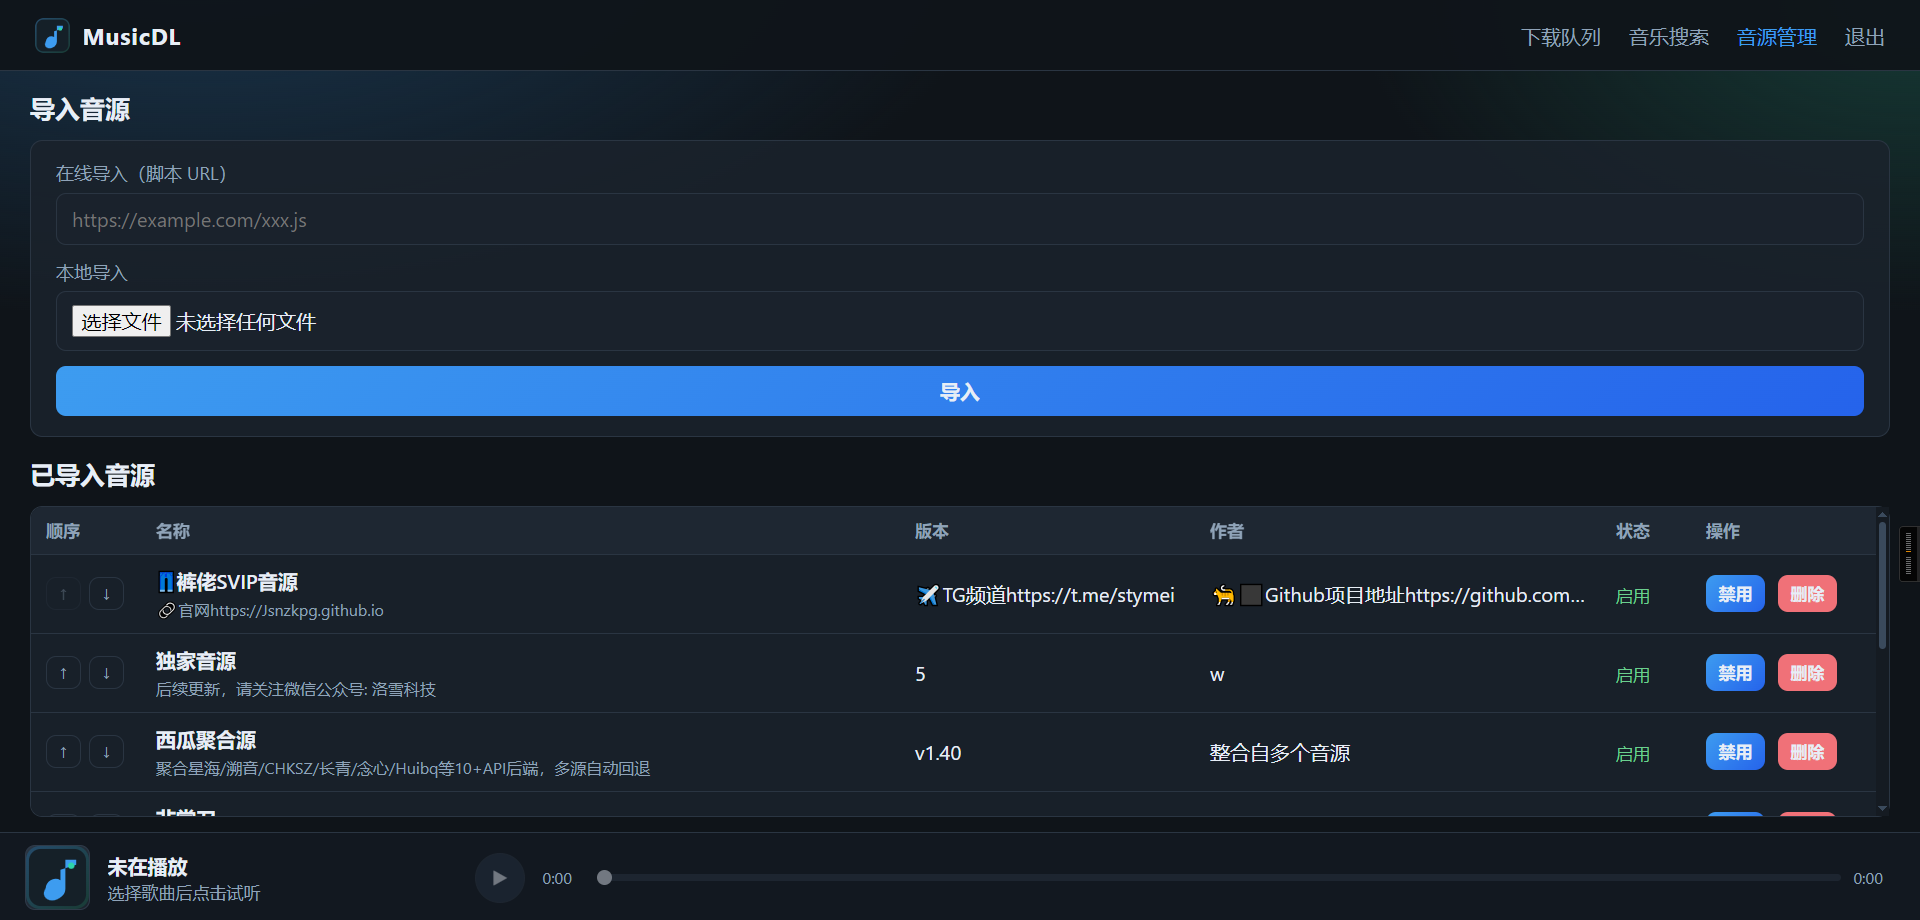
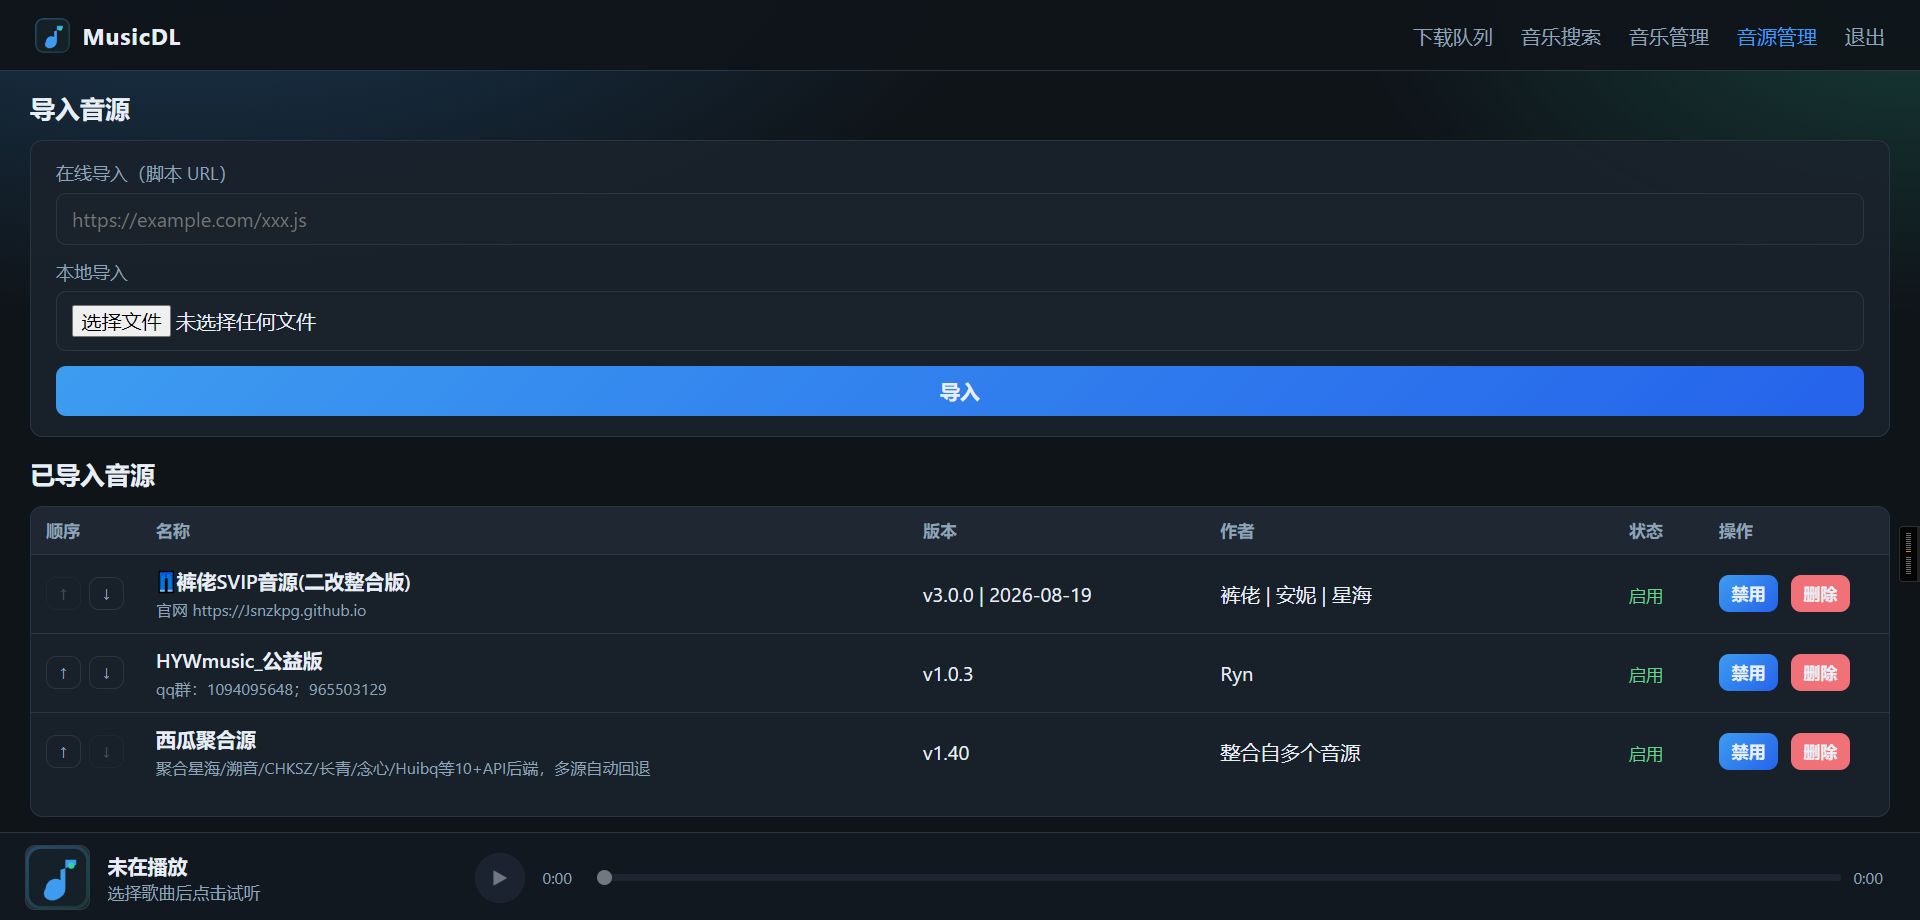
README.md

diff --git a/README.md b/README.md
@@ -2,7 +2,7 @@
 
 基于洛雪（LX Music）自定义音源的本地 Web 工具，用来**搜索、试听、下载**音乐。
 
-主要用途：对接 [Navidrome](https://www.navidrome.org/)（或其它扫盘媒体库）——在本工具里搜歌下载到本地目录，再由 Navidrome 扫描入库播放。
+主要用途：对接 [Navidrome](https://www.navidrome.org/)（或其它扫盘媒体库）——在本工具里搜歌下载到本地目录，再由 Navidrome 扫描入库播放。当你在听到喜欢音乐的时候，可以随时随地下载到私人音乐库中归档收藏。
 
 ## 截图
 
@@ -14,12 +14,21 @@
 
 ![音源](doc/音源.png)
 
+手机端 · 搜索：
+
+![手机搜索](doc/手机界面.png)
+
+手机端 · 音乐管理：
+
+![手机音乐管理](doc/音乐管理.png)
+
 ## 功能
 
 - 导入洛雪兼容自定义音源（URL 或本地 `.js`）
 - 按平台搜索（酷我 / 酷狗 / QQ / 网易云 / 咪咕），输入时可联想提示
 - 试听、按音质下载；下载队列；MP3/FLAC 可写入封面与歌词
 - 音乐管理：本地已下载列表、播放与删除
+- 手机端界面适配（搜索、音乐管理等）
 - 下载文件落在 `data/downloads/`，便于挂载给 Navidrome
 
 ## 要求
